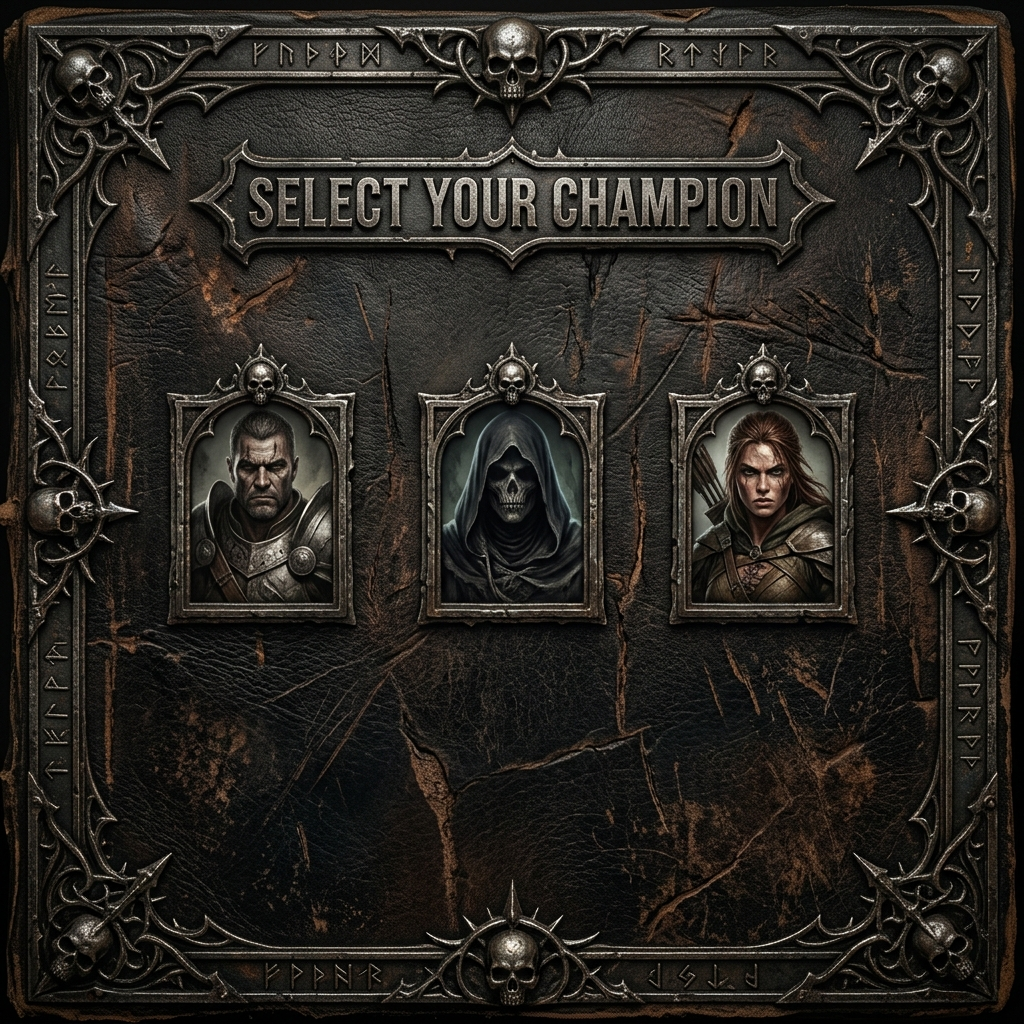
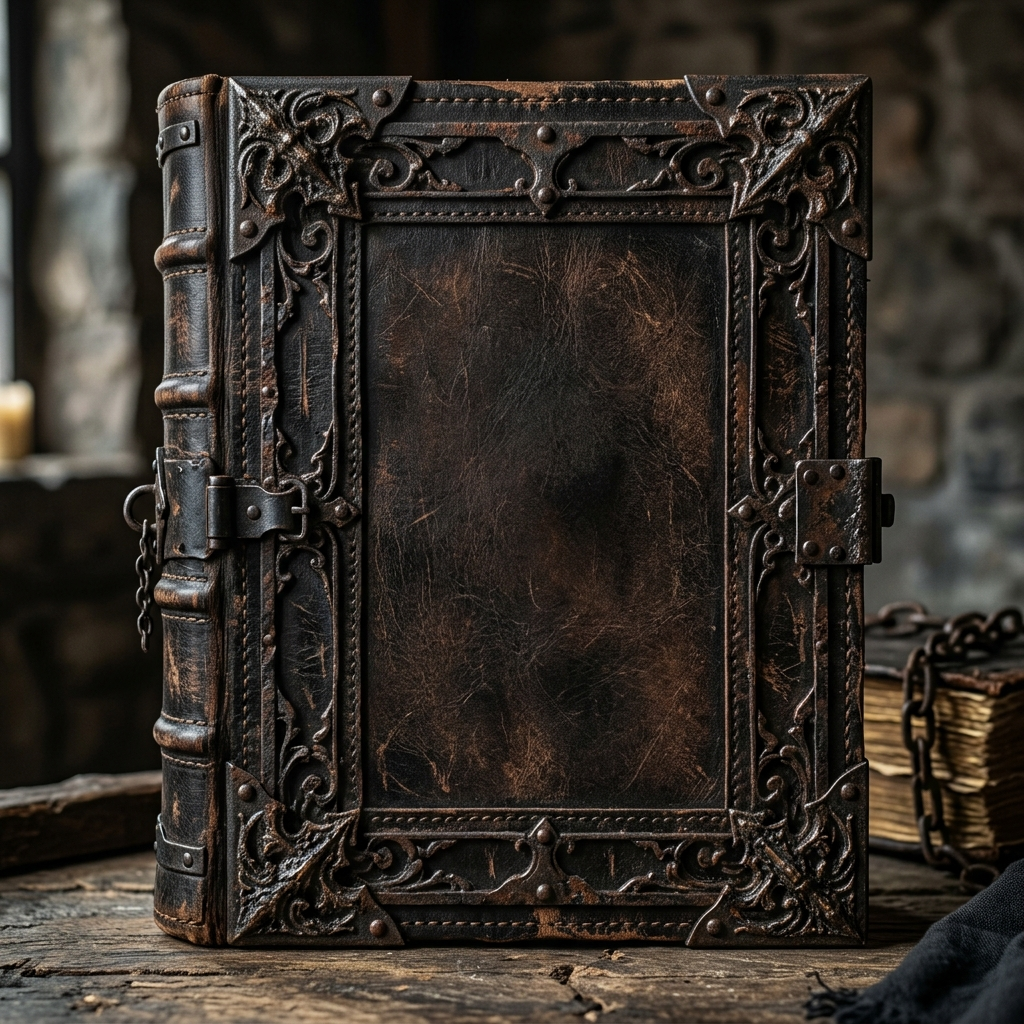
feat(ui): replace tome cover and improve character card typography

diff --git a/packages/web/src/components/Vault.tsx b/packages/web/src/components/Vault.tsx
@@ -241,14 +241,30 @@ export function Vault({ onHost, onJoin }: { onHost: (id: string) => void, onJoin
                          ✕
                        </button>
                     </div>
-                    <div className="relative z-10 flex-1">
-                      <h3 className="text-2xl font-bold text-yellow-500 drop-shadow-[0_0_10px_rgba(234,179,8,0.5)]">{char.name || 'Unnamed'}</h3>
-                      <p className="text-sm font-bold uppercase tracking-widest text-stone-400 mt-2">{char.race || 'Unknown'} {char.charClass}</p>
-                      <div className="mt-4 flex gap-2">
-                         <span className="px-2 py-1 bg-stone-900/80 rounded border border-stone-700 text-xs text-stone-300 font-mono">LVL {char.level || 1}</span>
+                    {/* Text Stage Container */}
+                    <div className="relative z-10 flex flex-col items-center justify-center p-4 mt-8 mx-2 rounded-lg border border-yellow-900/30" 
+                         style={{ 
+                           background: 'linear-gradient(to bottom, rgba(15,15,15,0.8), rgba(0,0,0,0.4))',
+                           backdropFilter: 'blur(3px)',
+                           boxShadow: '0 4px 15px rgba(0,0,0,0.8)'
+                         }}>
+                      <h3 className="font-bold text-yellow-500 text-center leading-tight w-full" 
+                          style={{ 
+                            fontSize: 'clamp(1.2rem, 5vw, 1.7rem)',
+                            textShadow: '2px 2px 4px rgba(0,0,0,0.9), 0 0 10px rgba(234,179,8,0.3)',
+                            wordWrap: 'break-word'
+                          }}>
+                        {char.name || 'Unnamed'}
+                      </h3>
+                      <p className="text-xs font-bold uppercase tracking-widest text-stone-400 mt-2 text-center" style={{ textShadow: '1px 1px 2px rgba(0,0,0,0.8)' }}>
+                         {char.race || 'Unknown'} {char.charClass}
+                      </p>
+                      <div className="mt-3 flex gap-2">
+                         <span className="px-3 py-1 bg-stone-900/90 rounded border border-stone-700 text-xs text-stone-300 font-mono shadow-[inset_0_2px_4px_rgba(0,0,0,0.6)]">LVL {char.level || 1}</span>
                       </div>
                     </div>
-                    <div className="relative z-10 flex gap-2 mt-auto">
+                    
+                    <div className="relative z-10 flex gap-2 mt-auto pt-4">
                       <button onClick={() => {
                         const newCampaignId = prompt("Enter the 4-digit code of the new campaign to join with this character:", "");
                         if (newCampaignId && newCampaignId.length === 4) {
@@ -296,14 +312,28 @@ export function Vault({ onHost, onJoin }: { onHost: (id: string) => void, onJoin
                            ✕
                          </button>
                       </div>
-                      <div className="relative z-10 flex-1">
-                        <h3 className="text-2xl font-bold text-yellow-500 drop-shadow-[0_0_10px_rgba(234,179,8,0.5)]">{camp.name}</h3>
-                        <p className="text-sm font-bold uppercase tracking-widest text-stone-400 mt-2">Room Code</p>
-                        <div className="mt-2 flex gap-2">
-                           <span className="px-4 py-2 bg-stone-900/80 rounded border border-stone-700 text-lg text-stone-300 font-mono tracking-widest">{camp.code}</span>
+                      {/* Text Stage Container */}
+                      <div className="relative z-10 flex flex-col items-center justify-center p-4 mt-8 mx-2 rounded-lg border border-yellow-900/30"
+                           style={{ 
+                             background: 'linear-gradient(to bottom, rgba(15,15,15,0.8), rgba(0,0,0,0.4))',
+                             backdropFilter: 'blur(3px)',
+                             boxShadow: '0 4px 15px rgba(0,0,0,0.8)'
+                           }}>
+                        <h3 className="font-bold text-yellow-500 text-center leading-tight w-full"
+                            style={{ 
+                              fontSize: 'clamp(1.2rem, 5vw, 1.7rem)',
+                              textShadow: '2px 2px 4px rgba(0,0,0,0.9), 0 0 10px rgba(234,179,8,0.3)',
+                              wordWrap: 'break-word'
+                            }}>
+                          {camp.name}
+                        </h3>
+                        <p className="text-xs font-bold uppercase tracking-widest text-stone-400 mt-2 text-center" style={{ textShadow: '1px 1px 2px rgba(0,0,0,0.8)' }}>Room Code</p>
+                        <div className="mt-3 flex gap-2">
+                           <span className="px-4 py-2 bg-stone-900/90 rounded border border-stone-700 text-lg text-stone-300 font-mono tracking-widest shadow-[inset_0_2px_4px_rgba(0,0,0,0.6)]">{camp.code}</span>
                         </div>
                       </div>
-                      <div className="relative z-10 flex gap-2 mt-auto">
+                      
+                      <div className="relative z-10 flex gap-2 mt-auto pt-4">
                         <button onClick={() => onHost(camp.code)} className="btn-gold flex-1 py-3 text-xs">Resume Campaign</button>
                       </div>
                     </div>
